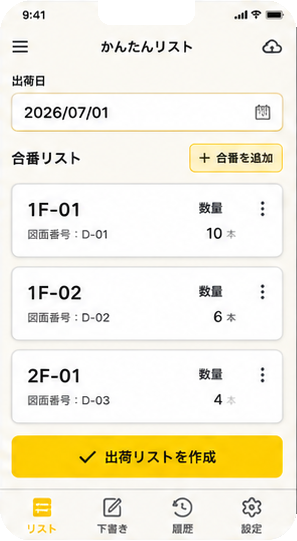
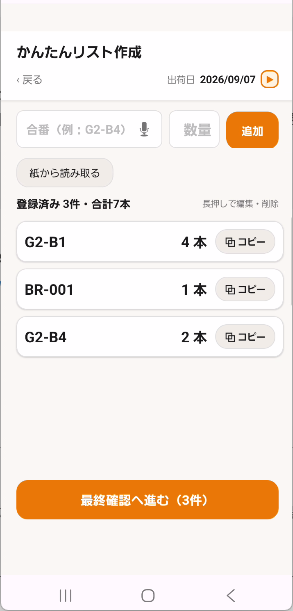
Finalize public responsive usage guide

diff --git a/guide_v2/01.html b/guide_v2/01.html
@@ -3,16 +3,15 @@
 <head>
 <meta charset="UTF-8">
 <meta name="viewport" content="width=device-width, initial-scale=1.0">
-<title>【比較用試作】01 出荷リストを準備する｜ツミタロウ 使い方</title>
+<title>01 出荷リストを準備する｜ツミタロウ 使い方</title>
 <link rel="icon" href="data:,">
 <link rel="stylesheet" href="guide.css">
-<link rel="stylesheet" href="01.css?rev=13e">
+<link rel="stylesheet" href="01.css?rev=14a">
 </head>
 <body class="v2-page-01">
 
 <div class="v2-topbar">
-  <div class="v2-topbar-brand"><span class="dot"></span>ツミタロウ<span class="v2-topbar-sub">&nbsp;使い方</span></div>
-  <span class="v2-topbar-tag">比較用試作（No.86V2-05B）</span>
+  <div class="v2-topbar-brand"><span class="dot"></span>ツミタロウ<span class="v2-topbar-sub">&nbsp;使い方ガイド</span></div>
 </div>
 
 <main class="v2-main">
@@ -58,9 +57,8 @@
 
         <figure class="prep-phone-shell">
           <div class="prep-phone-screen">
-            <!-- 正本の内画面のみ。切り出し範囲は左上(250,294)、右下(547,835)、右下を含まない。
-                 元の端末枠・ノッチは透明化。原寸297×541pxで保存し、補間・拡大は行わない。 -->
-            <img src="assets/01_phone_screen.png" width="297" height="541" alt="かんたんリスト。出荷日2026/07/01。1F-01・図面番号D-01・数量10本、1F-02・図面番号D-02・数量6本、2F-01・図面番号D-03・数量4本。合番を追加、出荷リストを作成。下部タブはリスト、下書き、履歴、設定。">
+            <!-- 実際のスマホ画面を使用。下端のOSナビゲーション領域だけをCSSで見切る。 -->
+            <img src="assets/01_phone_screen.png" width="293" height="611" alt="かんたんリスト作成画面。出荷日2026/09/07。G2-B1・数量4本、BR-001・数量1本、G2-B4・数量2本。合番と数量の追加、紙から読み取る、最終確認へ進む操作を表示。">
           </div>
         </figure>
       </div>
@@ -105,12 +103,12 @@
           <div class="prep-table-frame">
             <table class="prep-data-table">
               <caption class="prep-sr-only">選択した出荷リストExcelの内容</caption>
-              <colgroup><col class="prep-col-mark"><col class="prep-col-drawing"><col class="prep-col-count"><col class="prep-col-date"></colgroup>
-              <thead><tr><th scope="col">合番</th><th scope="col">図面番号</th><th scope="col">数量</th><th scope="col">出荷日</th></tr></thead>
+              <colgroup><col class="prep-col-mark"><col class="prep-col-count"><col class="prep-col-date"></colgroup>
+              <thead><tr><th scope="col">合番</th><th scope="col">数量</th><th scope="col">出荷日</th></tr></thead>
               <tbody>
-                <tr><td>1F-01</td><td>D-01</td><td>10</td><td>2026/07/01</td></tr>
-                <tr><td>1F-02</td><td>D-02</td><td>6</td><td>2026/07/01</td></tr>
-                <tr><td>2F-01</td><td>D-03</td><td>4</td><td>2026/07/01</td></tr>
+                <tr><td>G2-B1</td><td>4</td><td>9/1</td></tr>
+                <tr><td>BR-001</td><td>1</td><td>9/1</td></tr>
+                <tr><td>G2-B4</td><td>2</td><td>9/1</td></tr>
               </tbody>
             </table>
           </div>

diff --git a/guide_v2/01.css b/guide_v2/01.css
@@ -176,6 +176,7 @@
 
 .v2-page-01 .prep-phone-screen {
   overflow: hidden;
+  aspect-ratio: 293 / 574;
   border-radius: 24px;
   background: #faf9f5;
   line-height: 0;
@@ -335,10 +336,9 @@
   line-height: 1.5;
 }
 
-.v2-page-01 .prep-col-mark { width: 23%; }
-.v2-page-01 .prep-col-drawing { width: 25%; }
-.v2-page-01 .prep-col-count { width: 15%; }
-.v2-page-01 .prep-col-date { width: 37%; }
+.v2-page-01 .prep-col-mark { width: 40%; }
+.v2-page-01 .prep-col-count { width: 20%; }
+.v2-page-01 .prep-col-date { width: 40%; }
 .v2-page-01 .prep-data-table th,
 .v2-page-01 .prep-data-table td { padding: 7px 10px; text-align: left; overflow-wrap: anywhere; }
 .v2-page-01 .prep-data-table th { padding-top: 6px; padding-bottom: 6px; background: #f6f7f9; font-weight: 750; }
@@ -502,10 +502,9 @@
   .v2-page-01 .prep-data-table { font-size: 12px; }
   .v2-page-01 .prep-data-table th,
   .v2-page-01 .prep-data-table td { padding: 7px 3px; }
-  .v2-page-01 .prep-col-mark { width: 22%; }
-  .v2-page-01 .prep-col-drawing { width: 23%; }
-  .v2-page-01 .prep-col-count { width: 14%; }
-  .v2-page-01 .prep-col-date { width: 41%; }
+  .v2-page-01 .prep-col-mark { width: 39%; }
+  .v2-page-01 .prep-col-count { width: 22%; }
+  .v2-page-01 .prep-col-date { width: 39%; }
   .v2-page-01 .prep-excel-note { gap: 9px; padding: 9px; font-size: 14px; }
   .v2-page-01 .prep-excel-icon { flex-basis: 42px; width: 42px; height: 42px; }
   .v2-page-01 .prep-complete { gap: 8px; padding: 10px 15px; font-size: 18px; text-align: center; }
@@ -565,16 +564,5 @@
     /* 05Dの工程矢印と同じ軸3×15px・先端10×7px。既存の40pxの間隔は維持。 */
     clip-path: polygon(3.5px 0, 6.5px 0, 6.5px 15px, 10px 15px, 5px 22px, 0 15px, 3.5px 15px);
     pointer-events: none;
-  }
-}
-
-/* No.86V2-05F: 340px以下の「図面番号」だけ、左右の余白を文字幅へ充てる。 */
-@media (max-width: 340px) {
-  .v2-page-01 .prep-data-table th:nth-child(2) {
-    padding-left: 0;
-    padding-right: 0;
-    white-space: nowrap;
-    /* 320pxで従来の2行分（18px×2＋上下padding 14px）の高さを保持する。 */
-    height: 50px;
   }
 }

diff --git a/guide_v2/02.html b/guide_v2/02.html
@@ -11,7 +11,6 @@
 <body class="v2-page-02">
   <div class="v2-topbar">
     <div class="v2-topbar-brand"><span class="dot"></span>ツミタロウ<span class="v2-topbar-sub">&nbsp;使い方ガイド</span></div>
-    <span class="v2-topbar-tag">比較用試作（No.86V2-06B）</span>
   </div>
 
   <main class="v2-main">
@@ -34,7 +33,7 @@
 
         <div class="load-list-layout">
           <div class="load-phone-shell load-phone-shell--list">
-            <img src="assets/02_shipment_list_screen.png" width="339" height="602" alt="出荷リスト一覧。4件の出荷リストと未完了・完了の状態、ホーム・出荷リスト・履歴のタブを表示">
+            <img src="assets/02_shipment_list_screen.png" width="339" height="602" alt="出荷リスト一覧。出荷日、未完了・完了の状態、件数、右矢印を備えた4件の出荷リストと、ホーム・出荷リスト・履歴のタブを表示">
           </div>
           <aside class="load-select-callout">
             <strong>ここをタップ</strong>
@@ -54,7 +53,7 @@
 
         <div class="load-check-layout">
           <div class="load-phone-shell load-phone-shell--check">
-            <img src="assets/02_loading_check_screen.png" width="337" height="602" alt="積込確認画面。2026年7月1日、○○建設 A現場、積込進捗0／20件、未積込20件と4つの操作を表示">
+            <img src="assets/02_loading_check_screen.png" width="337" height="602" alt="積込確認画面。2026年7月1日、積込進捗0／20件、未積込20件と4つの操作を表示">
           </div>
 
           <ol class="load-actions" aria-label="積込方法と事前準備">

diff --git a/guide_v2/04.html b/guide_v2/04.html
@@ -3,16 +3,15 @@
 <head>
 <meta charset="UTF-8">
 <meta name="viewport" content="width=device-width, initial-scale=1.0">
-<title>【比較用試作】04 積込確認から完了まで｜ツミタロウ 使い方</title>
+<title>04 積込確認から完了まで｜ツミタロウ 使い方</title>
 <link rel="icon" href="data:,">
 <link rel="stylesheet" href="guide.css">
-<link rel="stylesheet" href="04.css?rev=13c">
+<link rel="stylesheet" href="04.css?rev=14a">
 </head>
 <body class="v2-page-04">
 
 <div class="v2-topbar">
-  <div class="v2-topbar-brand"><span class="dot"></span>ツミタロウ<span class="v2-topbar-sub">&nbsp;使い方</span></div>
-  <span class="v2-topbar-tag">比較用試作（No.86V2-02）</span>
+  <div class="v2-topbar-brand"><span class="dot"></span>ツミタロウ<span class="v2-topbar-sub">&nbsp;使い方ガイド</span></div>
 </div>
 
 <main class="v2-main">
@@ -78,7 +77,7 @@
     <p class="v2-step4-desc">すべての積込登録が終わると、この最終確認画面が表示されます。画面のリストと現物を照合し、問題がなければオレンジ色のボタンを押してください。</p>
 
     <div class="v2-step4-grid">
-      <div class="v2-step4-phone">
+      <div class="v2-step4-phone v2-phone-shell">
         <img src="assets/step4_confirm_phone.png" alt="最終確認画面（積込登録完了 35/35本 全3件登録済み 最終確認待ち リストと現物を確認済み・完了する あとで確認）">
       </div>
 

diff --git a/guide_v2/05-02.html b/guide_v2/05-02.html
@@ -3,16 +3,15 @@
 <head>
 <meta charset="UTF-8">
 <meta name="viewport" content="width=device-width, initial-scale=1.0">
-<title>【比較用試作】05-02 音声で操作する（その2）｜ツミタロウ 使い方</title>
+<title>05-02 音声で操作する（その2）｜ツミタロウ 使い方</title>
 <link rel="icon" href="data:,">
 <link rel="stylesheet" href="guide.css">
-<link rel="stylesheet" href="05-02.css?rev=13c">
+<link rel="stylesheet" href="05-02.css?rev=14a">
 </head>
 <body class="v2-page-05-02">
 
 <div class="v2-topbar">
-  <div class="v2-topbar-brand"><span class="dot"></span>ツミタロウ<span class="v2-topbar-sub">&nbsp;使い方</span></div>
-  <span class="v2-topbar-tag">比較用試作（No.86V2-09A）</span>
+  <div class="v2-topbar-brand"><span class="dot"></span>ツミタロウ<span class="v2-topbar-sub">&nbsp;使い方ガイド</span></div>
 </div>
 
 <main class="v2-main">

diff --git a/guide_v2/05-01.html b/guide_v2/05-01.html
@@ -3,7 +3,7 @@
 <head>
 <meta charset="UTF-8">
 <meta name="viewport" content="width=device-width, initial-scale=1.0">
-<title>【比較用試作】05-01 音声で操作する（その1）｜ツミタロウ 使い方</title>
+<title>05-01 音声で操作する（その1）｜ツミタロウ 使い方</title>
 <link rel="stylesheet" href="guide.css">
 <link rel="stylesheet" href="05-01.css?rev=13c">
 <link rel="icon" href="data:,">
@@ -11,8 +11,7 @@
 <body class="v2-page-05-01">
 
 <div class="v2-topbar">
-  <div class="v2-topbar-brand"><span class="dot"></span>ツミタロウ<span class="v2-topbar-sub">&nbsp;使い方</span></div>
-  <span class="v2-topbar-tag">比較用試作（No.86V2-08A）</span>
+  <div class="v2-topbar-brand"><span class="dot"></span>ツミタロウ<span class="v2-topbar-sub">&nbsp;使い方ガイド</span></div>
 </div>
 
 <main class="v2-main">

diff --git a/guide_v2/06.html b/guide_v2/06.html
@@ -3,7 +3,7 @@
 <head>
 <meta charset="UTF-8">
 <meta name="viewport" content="width=device-width, initial-scale=1.0">
-<title>【比較用試作】06 未積込・取消・オフライン｜ツミタロウ 使い方</title>
+<title>06 未積込・取消・オフライン｜ツミタロウ 使い方</title>
 <link rel="icon" href="data:,">
 <link rel="stylesheet" href="guide.css">
 <link rel="stylesheet" href="06.css?rev=13c">
@@ -11,8 +11,7 @@
 <body class="v2-page-06">
 
 <div class="v2-topbar">
-  <div class="v2-topbar-brand"><span class="dot"></span>ツミタロウ<span class="v2-topbar-sub">&nbsp;使い方</span></div>
-  <span class="v2-topbar-tag">比較用試作（No.86V2-10A）</span>
+  <div class="v2-topbar-brand"><span class="dot"></span>ツミタロウ<span class="v2-topbar-sub">&nbsp;使い方ガイド</span></div>
 </div>
 
 <main class="v2-main">

diff --git a/guide_v2/03.html b/guide_v2/03.html
@@ -3,7 +3,7 @@
 <head>
 <meta charset="UTF-8">
 <meta name="viewport" content="width=device-width, initial-scale=1.0">
-<title>【比較用試作】03 合番・部材QRの読み取り方｜ツミタロウ 使い方</title>
+<title>03 合番・部材QRの読み取り方｜ツミタロウ 使い方</title>
 <link rel="icon" href="data:,">
 <link rel="stylesheet" href="guide.css">
 <link rel="stylesheet" href="03.css?rev=13c">
@@ -11,8 +11,7 @@
 <body class="v2-page-03">
 
 <div class="v2-topbar">
-  <div class="v2-topbar-brand"><span class="dot"></span>ツミタロウ<span class="v2-topbar-sub">&nbsp;使い方</span></div>
-  <span class="v2-topbar-tag">比較用試作（No.86V2-07B）</span>
+  <div class="v2-topbar-brand"><span class="dot"></span>ツミタロウ<span class="v2-topbar-sub">&nbsp;使い方ガイド</span></div>
 </div>
 
 <main class="v2-main">

diff --git a/guide_v2/04.css b/guide_v2/04.css
@@ -4,6 +4,37 @@
   box-shadow: 0 3px 0 var(--navy-dark), 0 6px 14px rgba(16, 30, 60, 0.1);
 }
 
+/* 工程1〜3と同じ8px・#171717・28px角丸の端末外枠。 */
+.v2-page-04 .v2-step4-phone {
+  position: relative;
+  isolation: isolate;
+  border-radius: 28px;
+}
+
+.v2-page-04 .v2-step4-phone::before {
+  content: "";
+  position: absolute;
+  inset: 0;
+  z-index: 1;
+  border: 8px solid #171717;
+  border-radius: 28px;
+  pointer-events: none;
+}
+
+.v2-page-04 .v2-step4-phone::after {
+  content: "";
+  position: absolute;
+  top: 7px;
+  left: 50%;
+  width: 33.8%;
+  height: 19px;
+  z-index: 2;
+  transform: translateX(-50%);
+  border-radius: 0 0 10px 10px;
+  background: #171717;
+  pointer-events: none;
+}
+
 .v2-page-04 .v2-page04-pager {
   display: grid;
   grid-template-columns: repeat(2, minmax(0, 1fr));

diff --git a/guide_v2/07.html b/guide_v2/07.html
@@ -3,7 +3,7 @@
 <head>
   <meta charset="UTF-8">
   <meta name="viewport" content="width=device-width, initial-scale=1.0">
-  <title>【比較用試作】07 FAQ・用語集｜ツミタロウ 使い方</title>
+  <title>07 FAQ・用語集｜ツミタロウ 使い方</title>
   <link rel="icon" href="data:,">
   <link rel="stylesheet" href="guide.css">
   <link rel="stylesheet" href="07.css?rev=13c">
@@ -51,7 +51,6 @@
       <span>ツミタロウ</span>
       <span class="v2-topbar-sub">使い方ガイド</span>
     </div>
-    <div class="v2-topbar-tag">比較用試作（No.86V2-11A）</div>
   </div>
 
   <main class="v2-main">

diff --git a/guide_v2/guide.css b/guide_v2/guide.css
@@ -42,6 +42,7 @@ img { max-width: 100%; display: block; }
 
 /* ---------- 共通トップバー ---------- */
 .v2-topbar {
+  min-height: 60px;
   background: var(--navy);
   color: #fff;
   padding: 14px 20px;
@@ -512,7 +513,7 @@ img { max-width: 100%; display: block; }
 
 /* ---------- レスポンシブ（スマホ） ---------- */
 @media (max-width: 640px) {
-  .v2-topbar { padding: 10px 14px; }
+  .v2-topbar { min-height: 48px; padding: 10px 14px; }
   .v2-topbar-brand { font-size: 13px; }
   .v2-topbar-tag { font-size: 10.5px; padding: 5px 10px; }
 

diff --git a/guide_v2/05-02.css b/guide_v2/05-02.css
@@ -179,9 +179,9 @@
   max-width: 70%;
   aspect-ratio: 9 / 11;
   padding: 8px;
-  border: 5px solid #1d2430;
+  border: 0;
   border-radius: 22px;
-  background: #1d2430;
+  background: #171717;
   box-shadow: 0 4px 8px rgba(16, 30, 60, .13);
 }
 
@@ -866,7 +866,6 @@
     grid-row: 1 / 3;
     width: 118px;
     max-width: none;
-    border-width: 4px;
     border-radius: 18px;
   }
 
